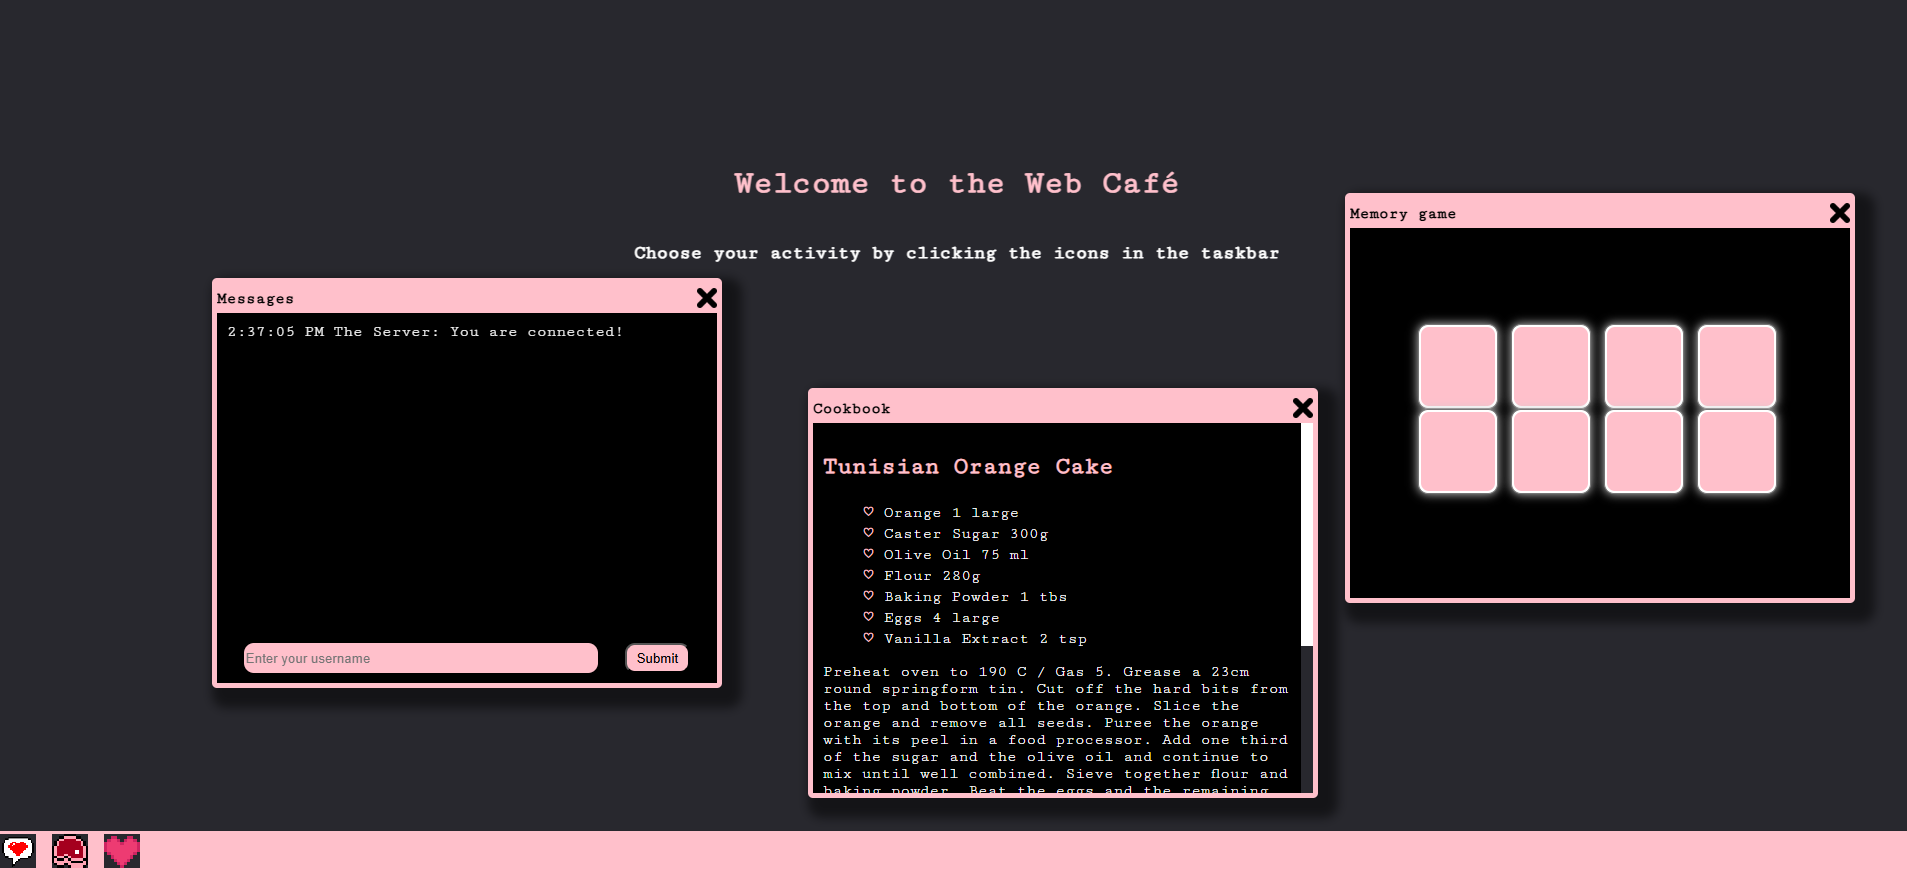
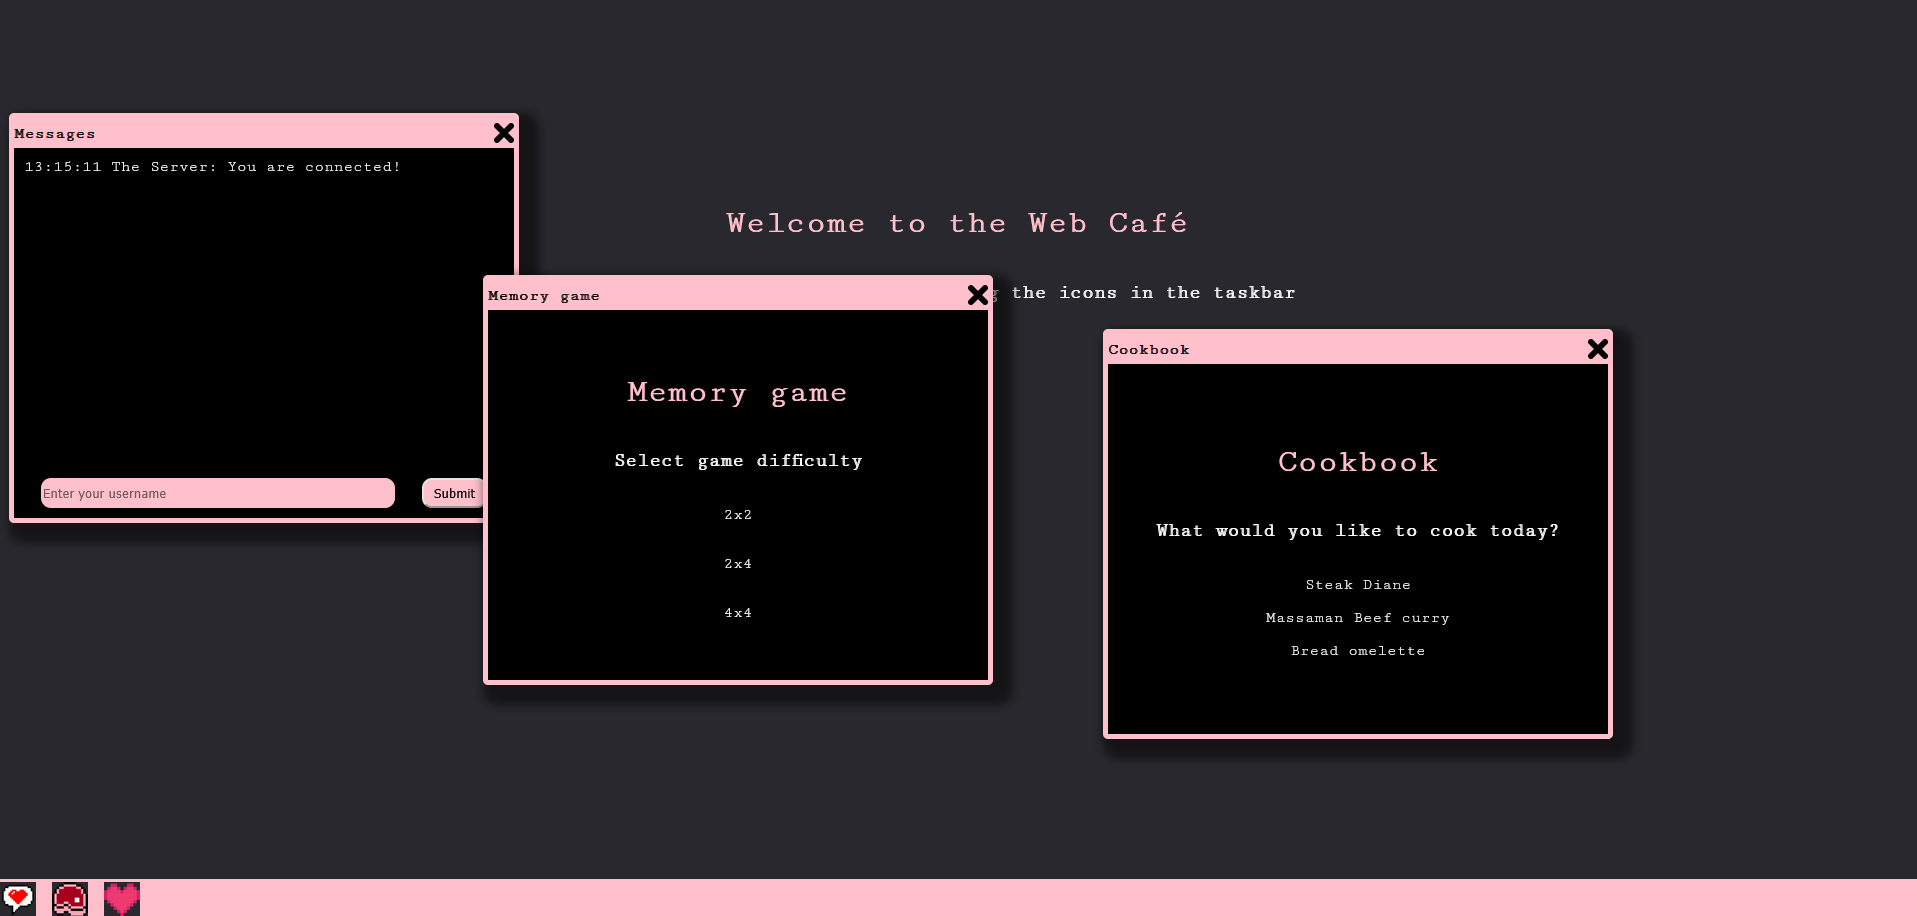
pwd

diff --git a/app/programming/pwd/page.tsx b/app/programming/pwd/page.tsx
@@ -1,0 +1,97 @@
+import { Badge } from "@/components/ui/badge";
+import Image from "next/image";
+
+export default function Pwd() {
+  const technologies = [
+    "JavaScript",
+    "WebSockets",
+    "WebComponents",
+    "HTML5",
+    "CSS3",
+  ];
+  return (
+    <section className="container mx-auto py-12 px-4 text-justify">
+      <h1 className="text-4xl font-extrabold font-cormorant tracking-tight lg:text-6xl mb-2">
+        Personal Web Desktop Application
+      </h1>
+
+      <p className="text-lg text-muted-foreground mb-4">
+        A single-page desktop-like application featuring a memory game, a real-time chat app using WebSockets, and a recipe browser powered by an external API.
+      </p>
+
+      <div className="flex flex-wrap gap-2 mb-6">
+        {technologies.map((tech, i) => (
+          <Badge key={i} variant="outline">
+            {tech}
+          </Badge>
+        ))}
+      </div>
+
+      <div className="mt-12 space-y-12 text-base leading-relaxed text-muted-foreground">
+        <div className="flex flex-col md:flex-row gap-14 items-center">
+          <div className="flex-1">
+            <h2 className="text-2xl font-bold mb-4">Main Application</h2>
+            <p>
+              The Personal Web Desktop application mimics a desktop environment within a browser. It features a dock where users can launch different sub-applications and manage them just like in a traditional operating system. Multiple instances of the same or different sub-applications can be opened and freely dragged around the interface. The focused sub-application always appears in front of others, ensuring smooth multitasking. Additionally, sub-applications can be minimized to the dock for a cleaner workspace.
+            </p>
+          </div>
+          <Image
+            src="/pwd.png"
+            alt="Personal Web Desktop Screenshot"
+            width={800}
+            height={1200}
+            className="rounded-lg shadow-md object-cover h-full"
+          />
+        </div>
+
+        {/* Sub-Applications Row */}
+        <div className="grid grid-cols-1 md:grid-cols-3 gap-8">
+          {/* Memory App */}
+          <div className="flex flex-col items-center">
+            <Image
+              src="/pwd-memory.png"
+              alt="Memory Game Screenshot"
+              width={400}
+              height={600}
+              className="rounded-lg shadow-md object-cover"
+            />
+            <h2 className="text-xl font-bold mt-4">Memory Sub-App</h2>
+            <p>
+              The Memory sub-application offers a classic memory game experience where players aim to find matching pairs of tiles. When tiles are flipped and do not match, they return to their original state, while successfully matched pairs disappear from the board. Players can choose from three difficulty levels and track their attempts and completion time.
+            </p>
+          </div>
+
+          {/* Chat App */}
+          <div className="flex flex-col items-center">
+            <Image
+              src="/pwd-chat.png"
+              alt="Chat App Screenshot"
+              width={400}
+              height={600}
+              className="rounded-lg shadow-md object-cover"
+            />
+            <h2 className="text-xl font-bold mt-4">Chat Sub-App</h2>
+            <p>
+              The Chat sub-application enables real-time communication using WebSockets. Users can set their username and start chatting instantly in the internal school system. Messages are displayed in a scrollable window and support multiple users simultaneously.
+            </p>
+          </div>
+
+          {/* Recipe Browser App */}
+          <div className="flex flex-col items-center">
+            <Image
+              src="/pwd-cookbook.png"
+              alt="Recipe Browser Screenshot"
+              width={400}
+              height={600}
+              className="rounded-lg shadow-md object-cover"
+            />
+            <h2 className="text-xl font-bold mt-4">Recipe Browser Sub-App</h2>
+            <p>
+              The Recipe Browser sub-application lets users search for recipes using an external API. It retrieves and displays recipe details, including ingredients and cooking instructions, to help users find new culinary inspiration.
+            </p>
+          </div>
+        </div>
+      </div>
+    </section>
+  );
+}

diff --git a/app/programming/allel/page.tsx b/app/programming/allel/page.tsx
@@ -26,8 +26,6 @@ export default function ProjectPage() {
 
       <div className="mt-12 space-y-12 gap-4 text-base leading-relaxed text-muted-foreground">
         {/* Requirements */}
-
-        {/* Combined Text (Left) + Graphic Profile Image (Right) */}
         <div className="grid md:grid-cols-2 gap-14 items-stretch">
           {/* Left column: combined text sections */}
           <div className="flex flex-col justify-between space-y-8 h-full">
